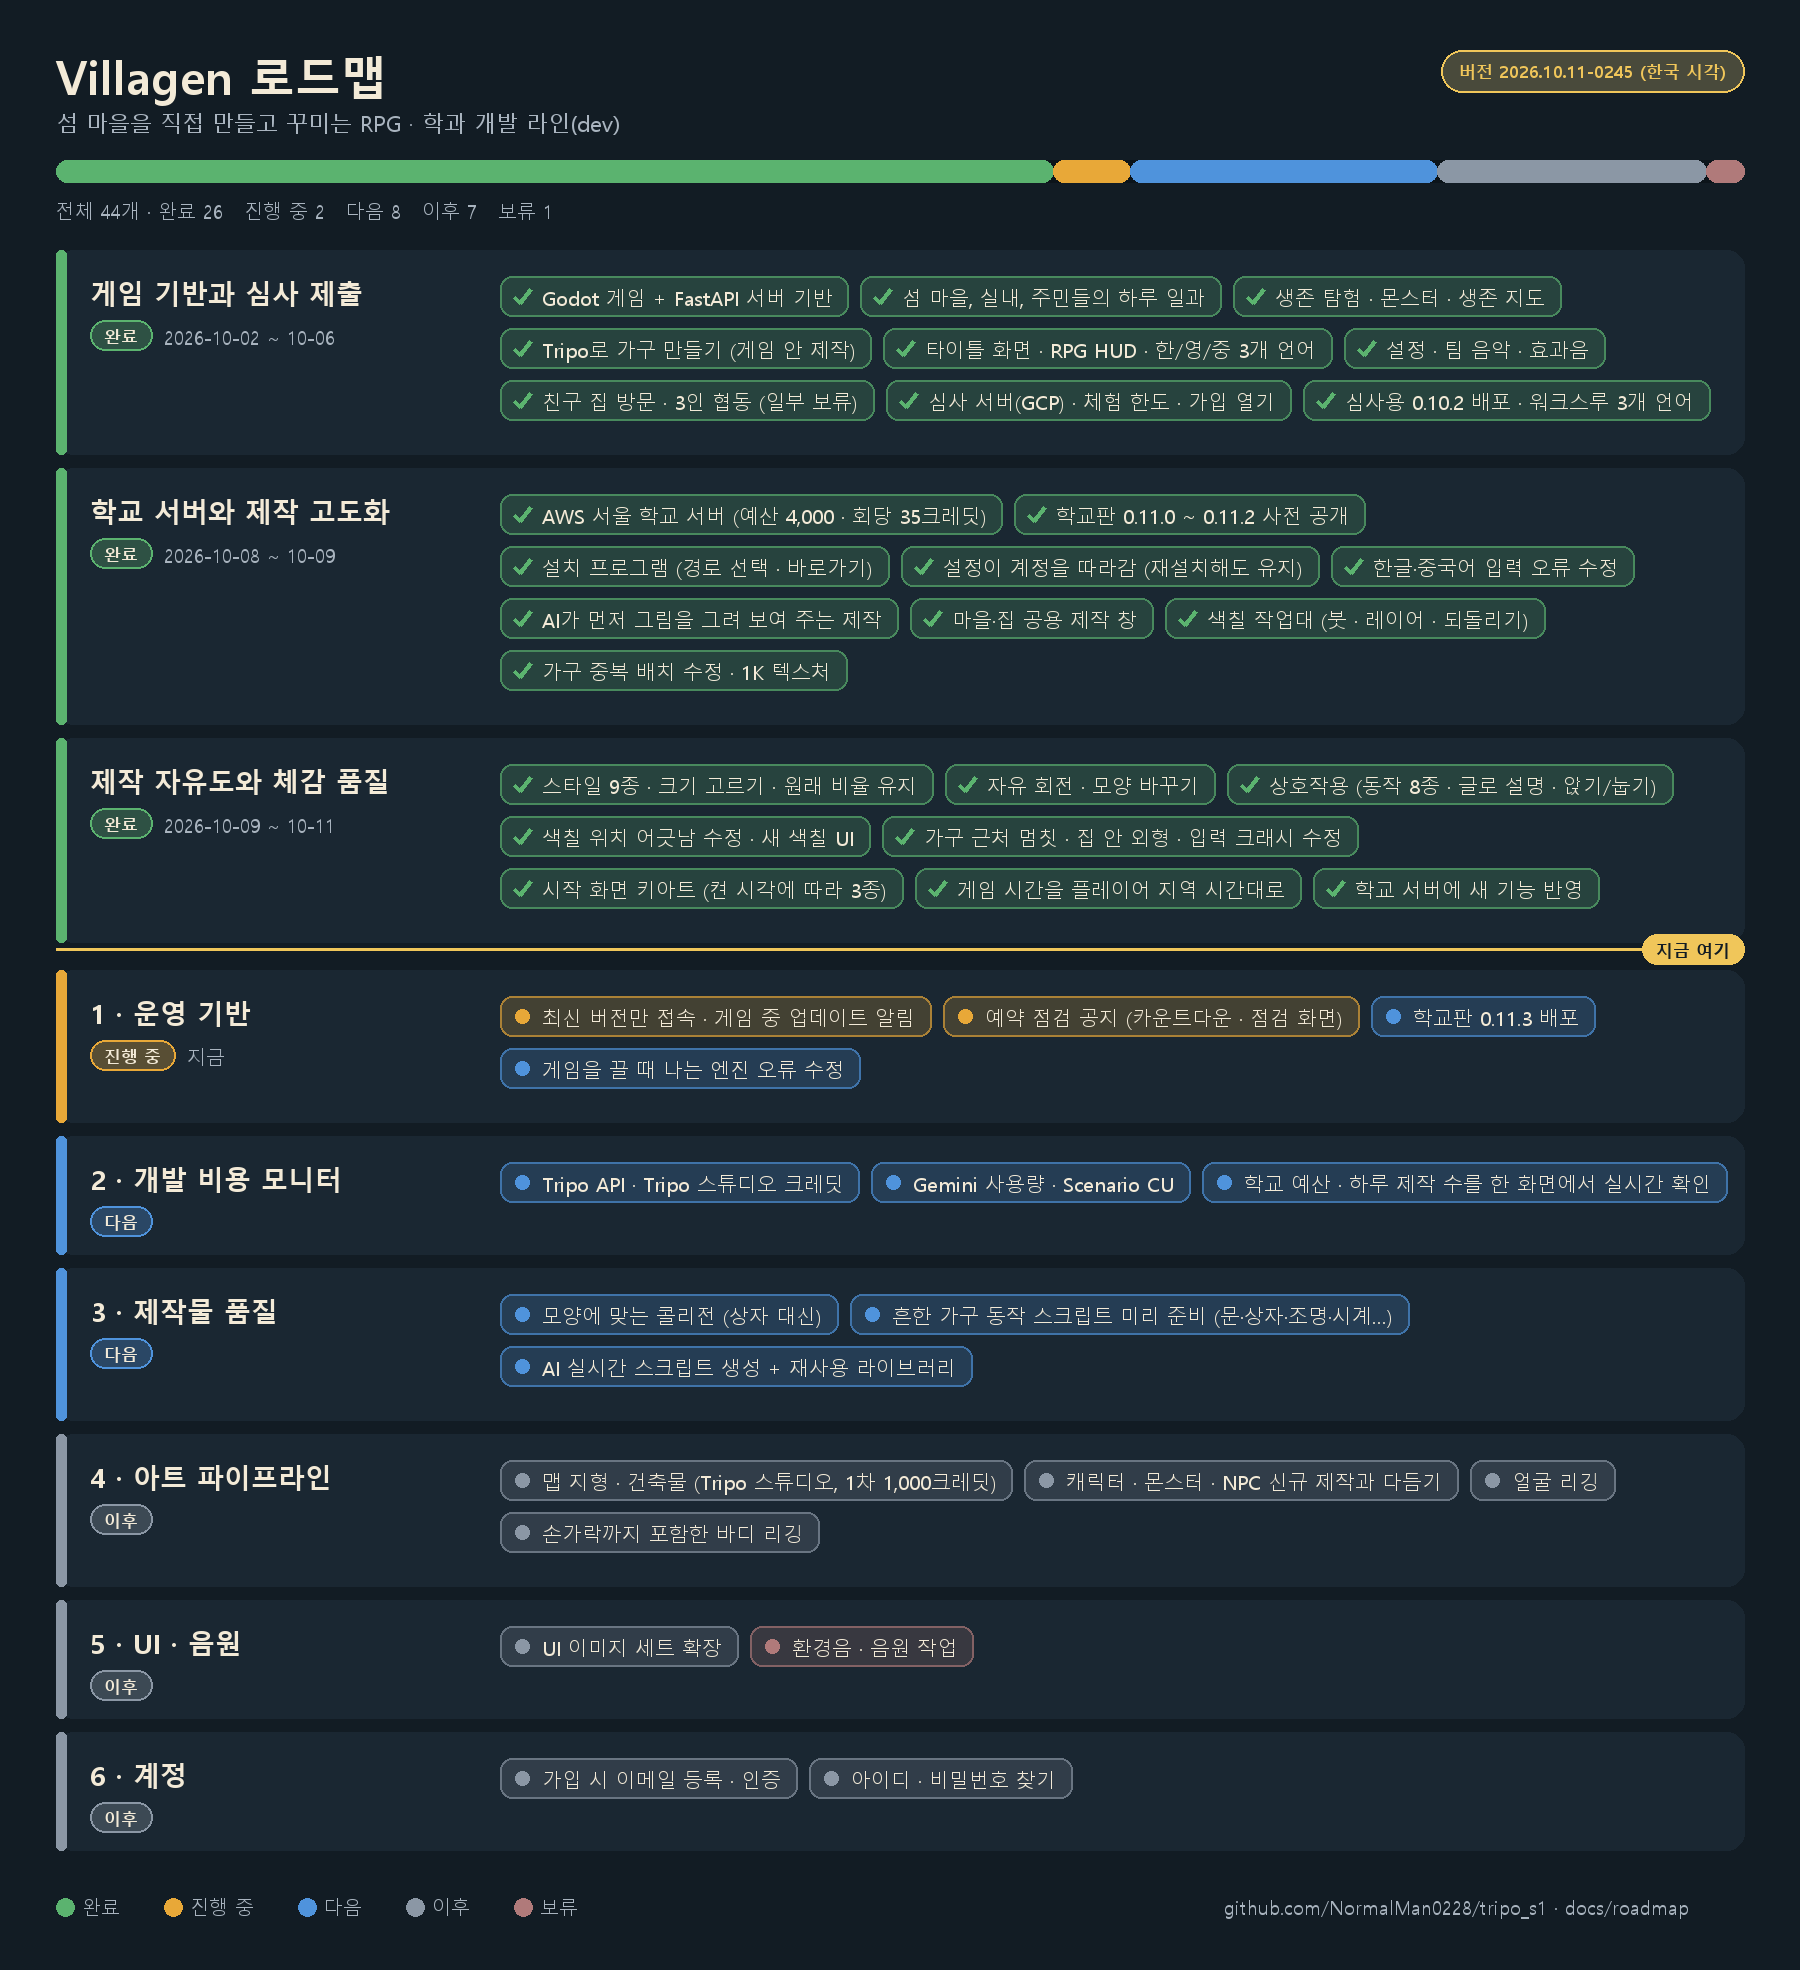
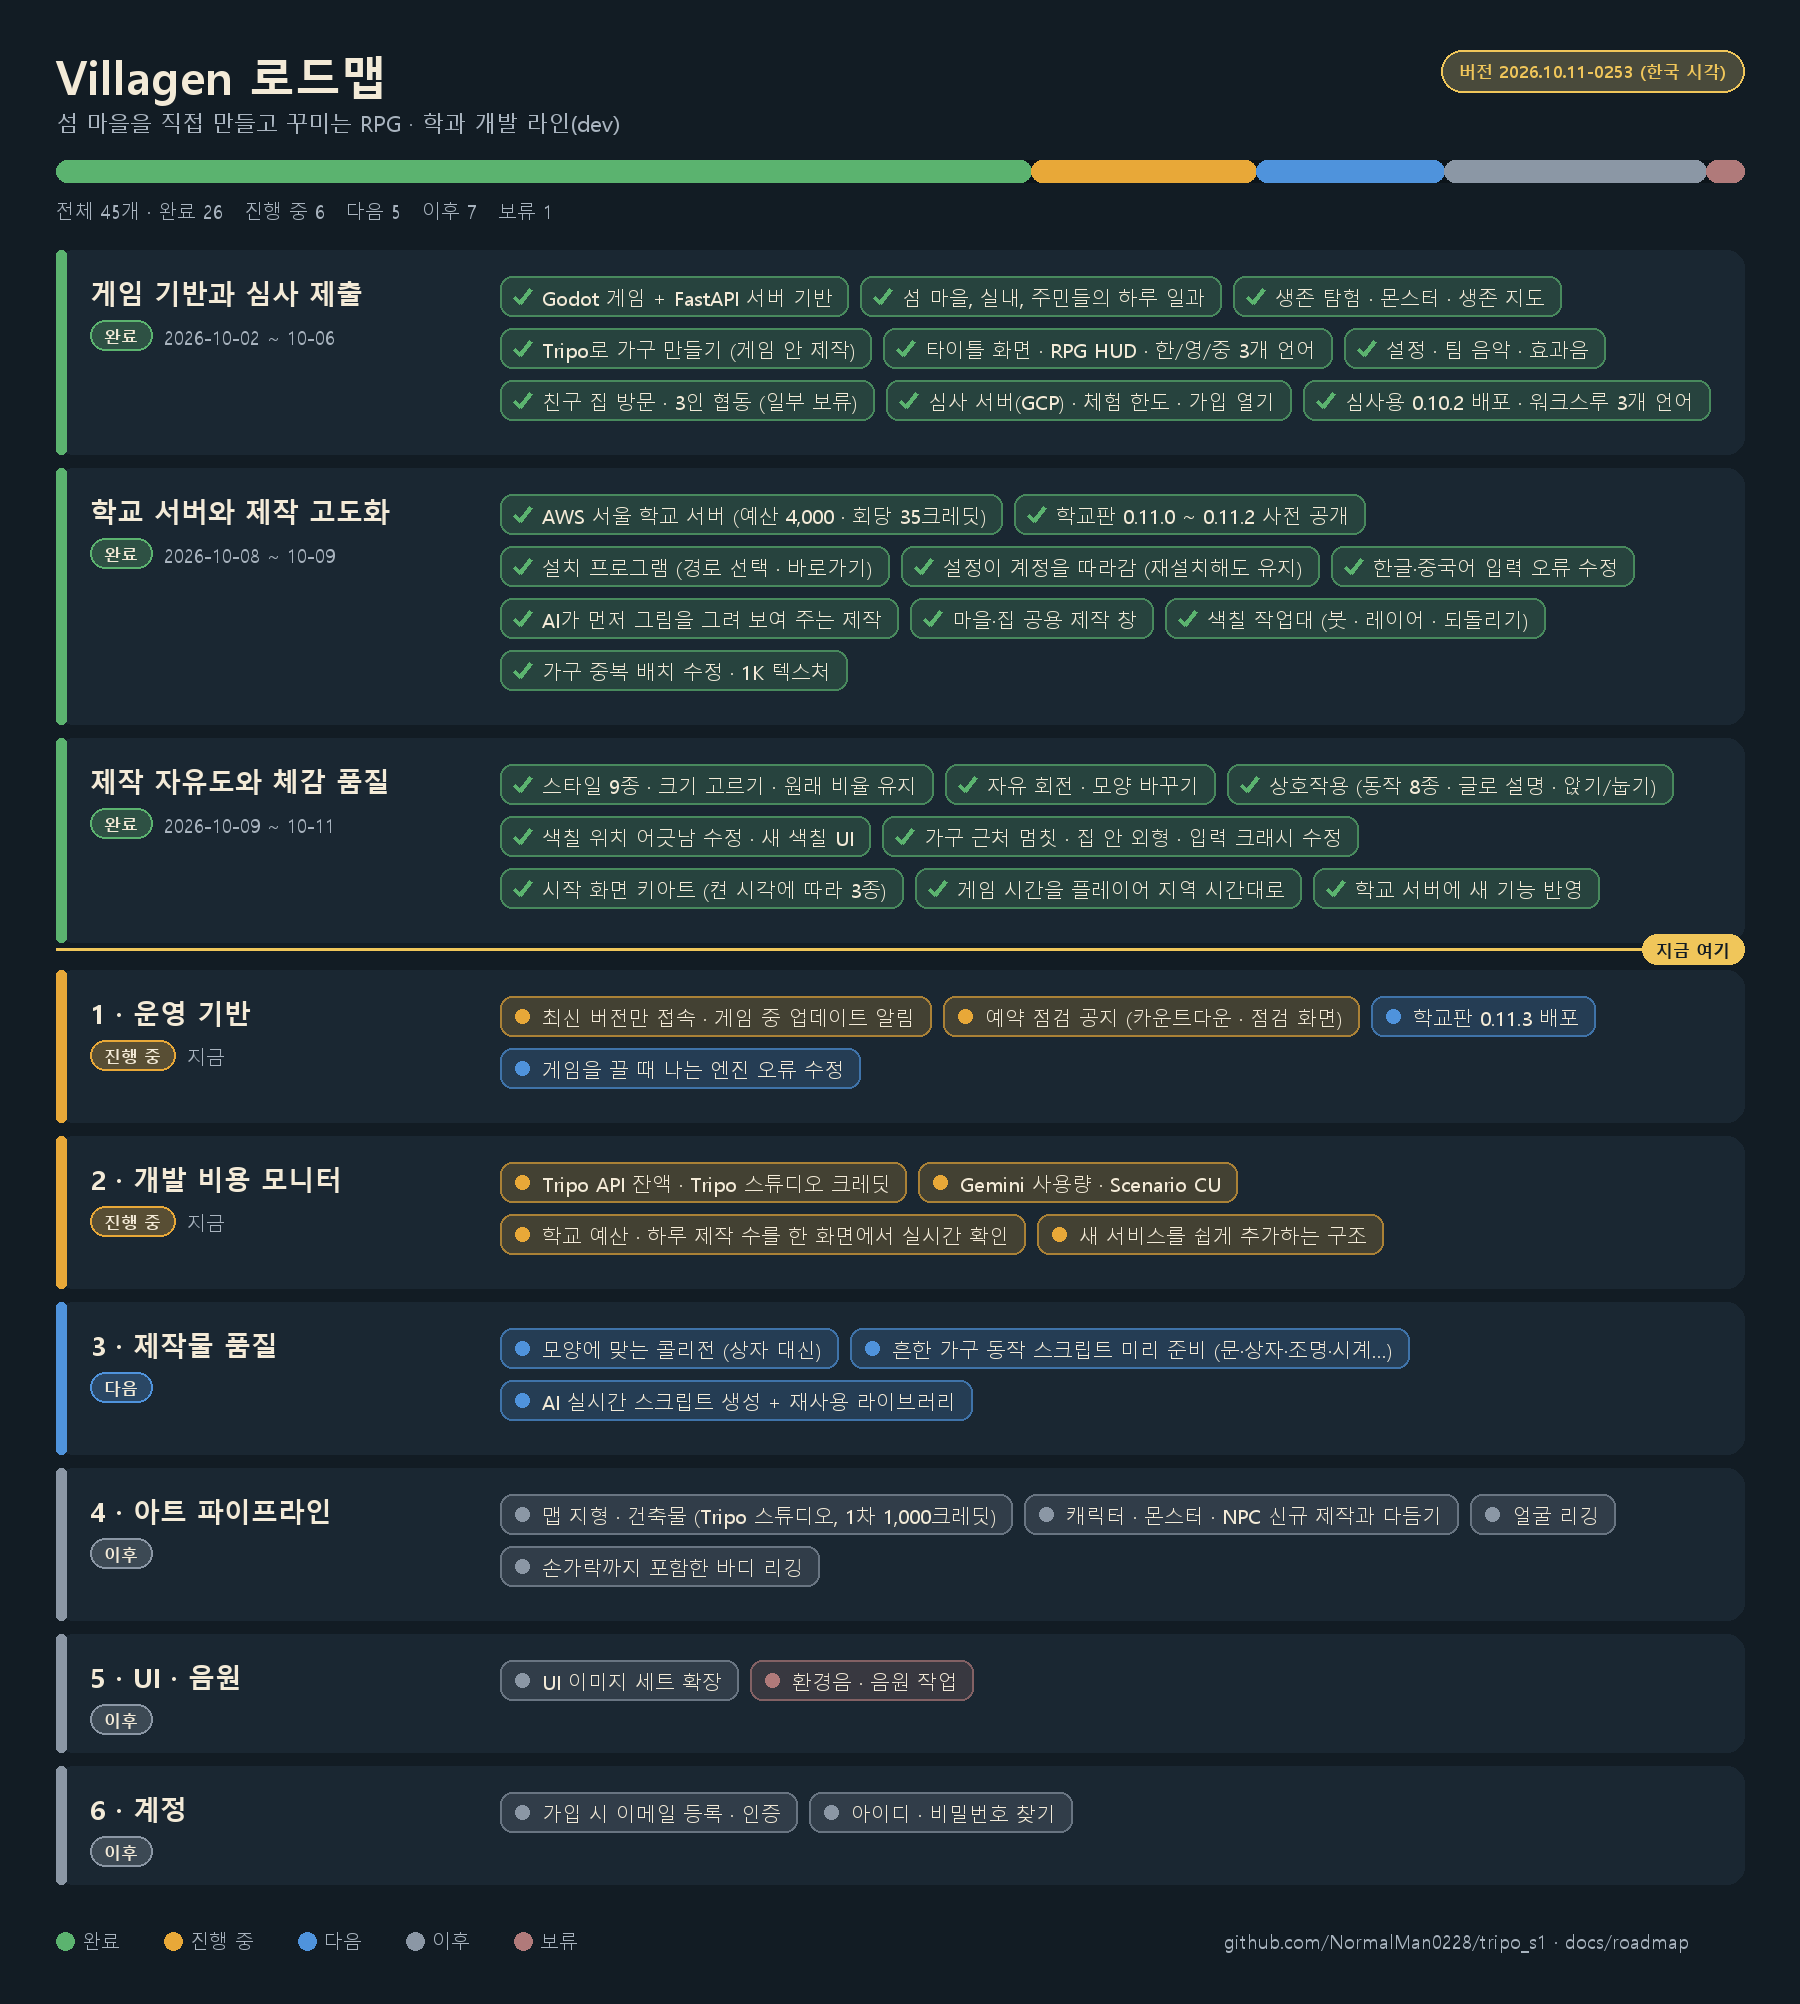
Roadmap: cost monitor started

diff --git a/docs/roadmap/ROADMAP_KO.md b/docs/roadmap/ROADMAP_KO.md
@@ -1,8 +1,8 @@
 # Villagen 로드맵
 
-**버전 2026.10.11-0245** (한국 시각) · 섬 마을을 직접 만들고 꾸미는 RPG · 학과 개발 라인(dev)
+**버전 2026.10.11-0253** (한국 시각) · 섬 마을을 직접 만들고 꾸미는 RPG · 학과 개발 라인(dev)
 
-> 그림으로 보기: [VISUAL_KO.md](VISUAL_KO.md) · 전체 44개 중 완료 26 · 진행 중 2 · 다음 8 · 이후 7 · 보류 1
+> 그림으로 보기: [VISUAL_KO.md](VISUAL_KO.md) · 전체 45개 중 완료 26 · 진행 중 6 · 다음 5 · 이후 7 · 보류 1
 
 - [학교판 내려받기 (사전 공개)](https://github.com/NormalMan0228/tripo_s1/releases)
 - [심사용 최신판 0.10.2](https://github.com/NormalMan0228/tripo_s1/releases/latest)
@@ -51,11 +51,12 @@
 - [ ] 학교판 0.11.3 배포 · *다음*
 - [ ] 게임을 끌 때 나는 엔진 오류 수정 · *다음*
 
-## 2 · 개발 비용 모니터  `다음`
+## 2 · 개발 비용 모니터  `진행 중` · 지금
 
-- [ ] Tripo API · Tripo 스튜디오 크레딧 · *다음*
-- [ ] Gemini 사용량 · Scenario CU · *다음*
-- [ ] 학교 예산 · 하루 제작 수를 한 화면에서 실시간 확인 · *다음*
+- [ ] Tripo API 잔액 · Tripo 스튜디오 크레딧 · *진행 중*
+- [ ] Gemini 사용량 · Scenario CU · *진행 중*
+- [ ] 학교 예산 · 하루 제작 수를 한 화면에서 실시간 확인 · *진행 중*
+- [ ] 새 서비스를 쉽게 추가하는 구조 · *진행 중*
 
 ## 3 · 제작물 품질  `다음`
 
@@ -84,6 +85,7 @@
 
 | 버전 (한국 시각) | 바뀐 점 |
 |---|---|
+| 2026.10.11-0253 | 2단계 개발 비용 모니터 시작 (이 PC 대시보드, 서비스 추가 쉬운 구조) |
 | 2026.10.11-0245 | 로드맵 첫 공개: 완료 3단계 + 앞으로 6단계 |
 
 <sub>docs/roadmap/roadmap.json을 고친 뒤 `python tools/build_roadmap.py --note "…"`로 다시 만듭니다.</sub>

diff --git a/docs/roadmap/VISUAL_KO.md b/docs/roadmap/VISUAL_KO.md
@@ -1,7 +1,7 @@
 # Villagen 로드맵 (그림)
 
-**버전 2026.10.11-0245** (한국 시각) · 글로 보기: [ROADMAP_KO.md](ROADMAP_KO.md)
+**버전 2026.10.11-0253** (한국 시각) · 글로 보기: [ROADMAP_KO.md](ROADMAP_KO.md)
 
-![Villagen 로드맵 2026.10.11-0245](roadmap.png)
+![Villagen 로드맵 2026.10.11-0253](roadmap.png)
 
 초록 완료 · 주황 진행 중 · 파랑 다음 · 회색 이후 · 갈색 보류

diff --git a/docs/roadmap/README.md b/docs/roadmap/README.md
@@ -1,8 +1,8 @@
 # Villagen 로드맵
 
-**버전 2026.10.11-0245** (한국 시각)
+**버전 2026.10.11-0253** (한국 시각)
 
 - [그림으로 보기](VISUAL_KO.md)
-- [글로 보기](ROADMAP_KO.md) — 완료 26 · 진행 중 2 · 다음 8 · 이후 7
+- [글로 보기](ROADMAP_KO.md) — 완료 26 · 진행 중 6 · 다음 5 · 이후 7
 
 ![로드맵](roadmap.png)
